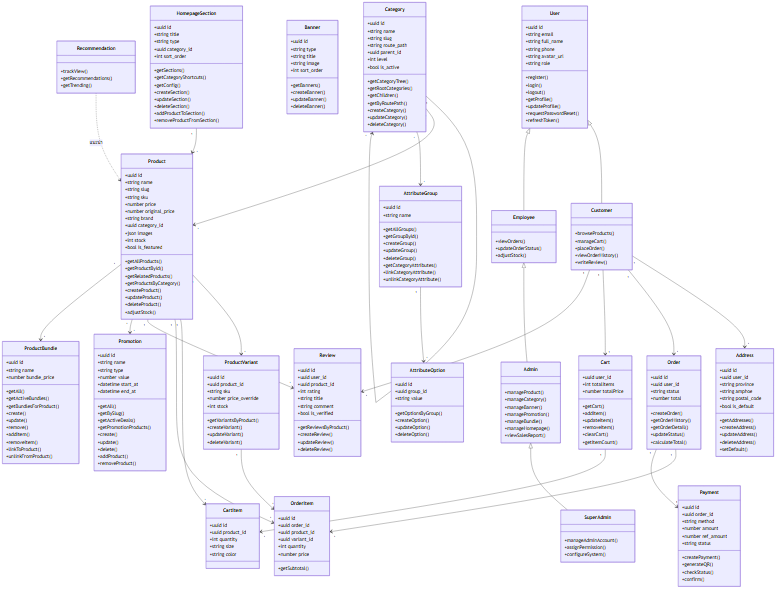
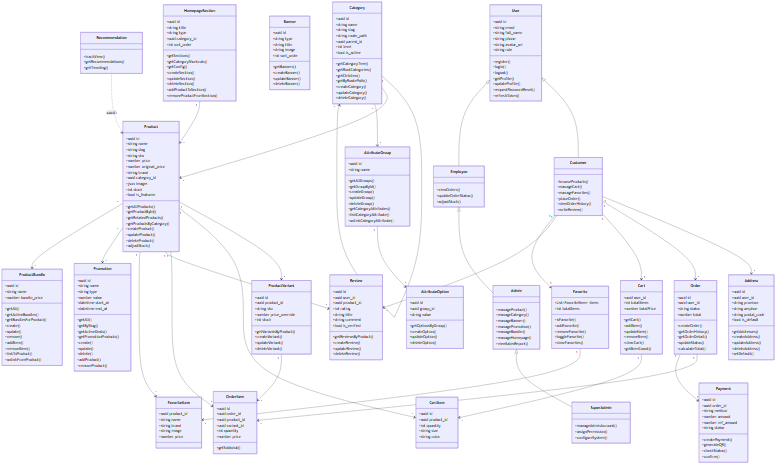
docs: add Favorite classes back to class diagram
- Favorite / FavoriteItem were dropped in the previous class diagram rewrite
  even though the feature exists in the app (/favorites + FavoritesContext)
- Add manageFavorites() to Customer and the Customer-Favorite-Product relations
- Note in README that favorites are frontend-only (localStorage, no API/table)

diff --git a/README.md b/README.md
@@ -186,6 +186,7 @@ Wireframe / Prototype เปิดดูได้ที่ [`docs/wireframes.htm
 
 > **บทบาทผู้ใช้ในระบบ:** `customer` · `employee` · `admin` (ตาม `profiles.role` ในฐานข้อมูล) และ `super_admin` (อยู่ระหว่างเพิ่มใน schema)
 > ส่วนที่กำกับว่า **planned** คือออกแบบไว้แล้วแต่ยังไม่ได้ implement ฝั่ง backend (orders / addresses / payments / reviews API)
+> **สินค้าโปรด (Favorite)** ทำงานฝั่ง frontend ด้วย localStorage เท่านั้น ยังไม่มี API และตารางในฐานข้อมูล
 
 ### 1. Use Case Diagram
 
@@ -276,6 +277,7 @@ classDiagram
     class Customer {
         +browseProducts()
         +manageCart()
+        +manageFavorites()
         +placeOrder()
         +viewOrderHistory()
         +writeReview()
@@ -387,6 +389,23 @@ classDiagram
         +int quantity
         +string size
         +string color
+    }
+
+    class Favorite {
+        +List~FavoriteItem~ items
+        +int totalItems
+        +isFavorite()
+        +addFavorite()
+        +removeFavorite()
+        +toggleFavorite()
+        +clearFavorites()
+    }
+    class FavoriteItem {
+        +uuid product_id
+        +string name
+        +string brand
+        +string image
+        +number price
     }
 
     class Order {
@@ -521,6 +540,8 @@ classDiagram
     Customer "1" --> "*" Order
     Customer "1" --> "1" Cart
     Customer "1" --> "*" Review
+    Customer "1" --> "1" Favorite
+    Favorite "1" --> "*" FavoriteItem
 
     Category "1" --> "*" Category
     Category "1" --> "*" Product
@@ -530,6 +551,7 @@ classDiagram
     Product "1" --> "*" CartItem
     Product "1" --> "*" OrderItem
     Product "1" --> "*" Review
+    Product "1" --> "*" FavoriteItem
     Product "*" --> "*" Promotion
     Product "*" --> "*" ProductBundle
 